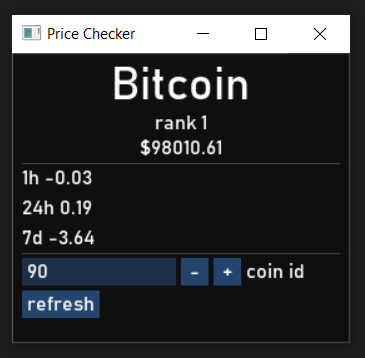
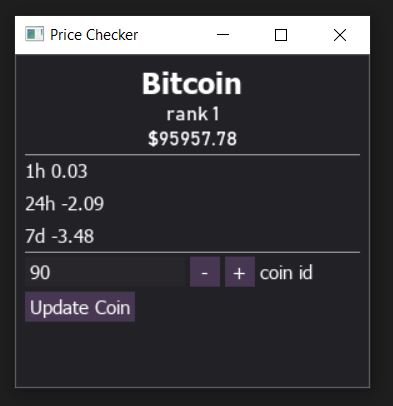
Updated price_checker example.

Changed region(s): [[0.0301, 0.0307, 0.9644, 0.9525]]

diff --git a/ender/platform/lua_window.cpp b/ender/platform/lua_window.cpp
@@ -19,6 +19,20 @@ bool ender::lua_window::lua_create() {
         lua_bind_imgui_api();
     }
 
+    ImVec4* colors = ImGui::GetStyle().Colors;
+    colors[ImGuiCol_WindowBg] = ImVec4(0.13f, 0.13f, 0.15f, 1.00f);
+    colors[ImGuiCol_PopupBg] = ImVec4(0.08f, 0.08f, 0.08f, 0.92f);
+    colors[ImGuiCol_FrameBg] = ImVec4(0.16f, 0.15f, 0.17f, 1.00f);
+    colors[ImGuiCol_FrameBgHovered] = ImVec4(0.87f, 0.40f, 1.00f, 0.40f);
+    colors[ImGuiCol_FrameBgActive] = ImVec4(0.75f, 0.33f, 1.00f, 0.67f);
+    colors[ImGuiCol_CheckMark] = ImVec4(0.78f, 0.48f, 1.00f, 1.00f);
+    colors[ImGuiCol_SliderGrab] = ImVec4(0.80f, 0.53f, 1.00f, 1.00f);
+    colors[ImGuiCol_SliderGrabActive] = ImVec4(0.71f, 0.30f, 1.00f, 1.00f);
+    colors[ImGuiCol_Button] = ImVec4(0.36f, 0.26f, 0.41f, 0.66f);
+    colors[ImGuiCol_ButtonHovered] = ImVec4(0.80f, 0.53f, 1.00f, 1.00f);
+    colors[ImGuiCol_ButtonActive] = ImVec4(0.74f, 0.38f, 1.00f, 1.00f);
+    colors[ImGuiCol_Separator] = ImVec4(0.63f, 0.63f, 0.63f, 1.00f);
+
     // Load all the script files in the folder specified.
     lua_load_scripts_from_folder("scripts");
 

diff --git a/examples/menu_app/menu_app.cpp b/examples/menu_app/menu_app.cpp
@@ -59,7 +59,7 @@ int menu_app::run_menu_app() {
                                         .on_message_destroy = nullptr,
                                         .on_message_close = nullptr}) == true) {
         while (app->process_events(nullptr) == true) {
-            app->render_frame(/*on_render_frame_handler*/ nullptr);
+            app->render_frame(on_render_frame_handler);
         }
 
         app->destroy(nullptr);

diff --git a/examples/examples_main.cpp b/examples/examples_main.cpp
@@ -8,6 +8,7 @@
 // Example Windows entry point.
 INT WINAPI wWinMain(HINSTANCE instance, HINSTANCE, PWSTR cmd_line, INT cmd_show) {
     crypto_price_checker::run_example();
+    // menu_app::run_menu_app();
 
     return 1;
 }
